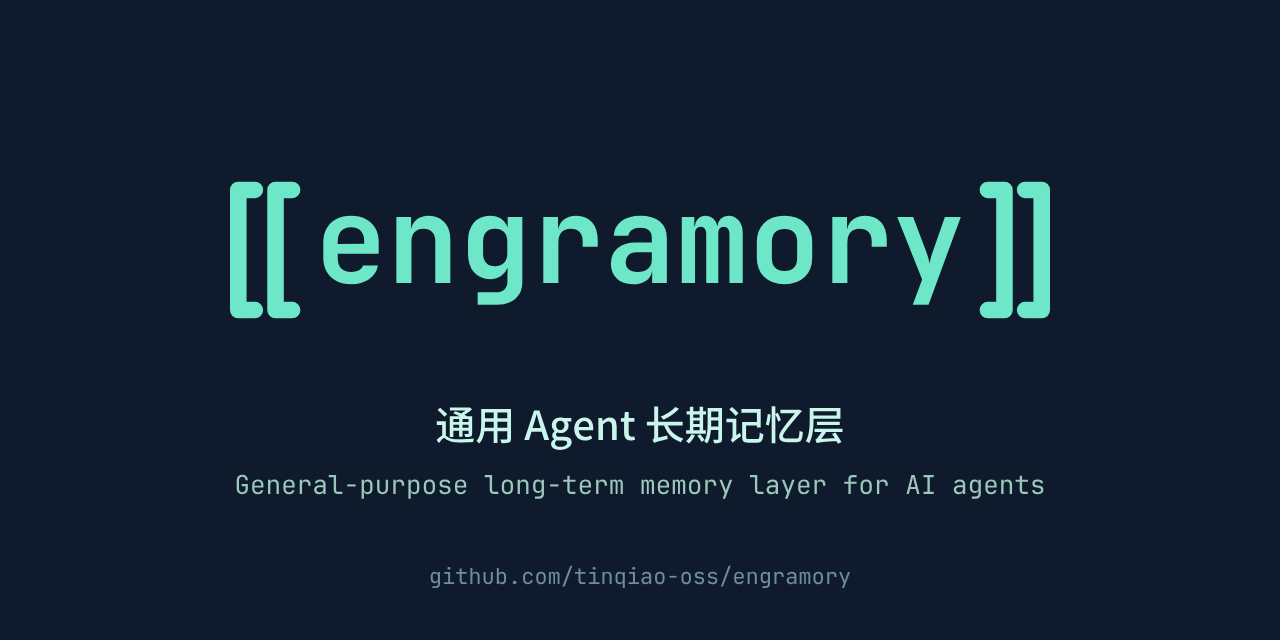
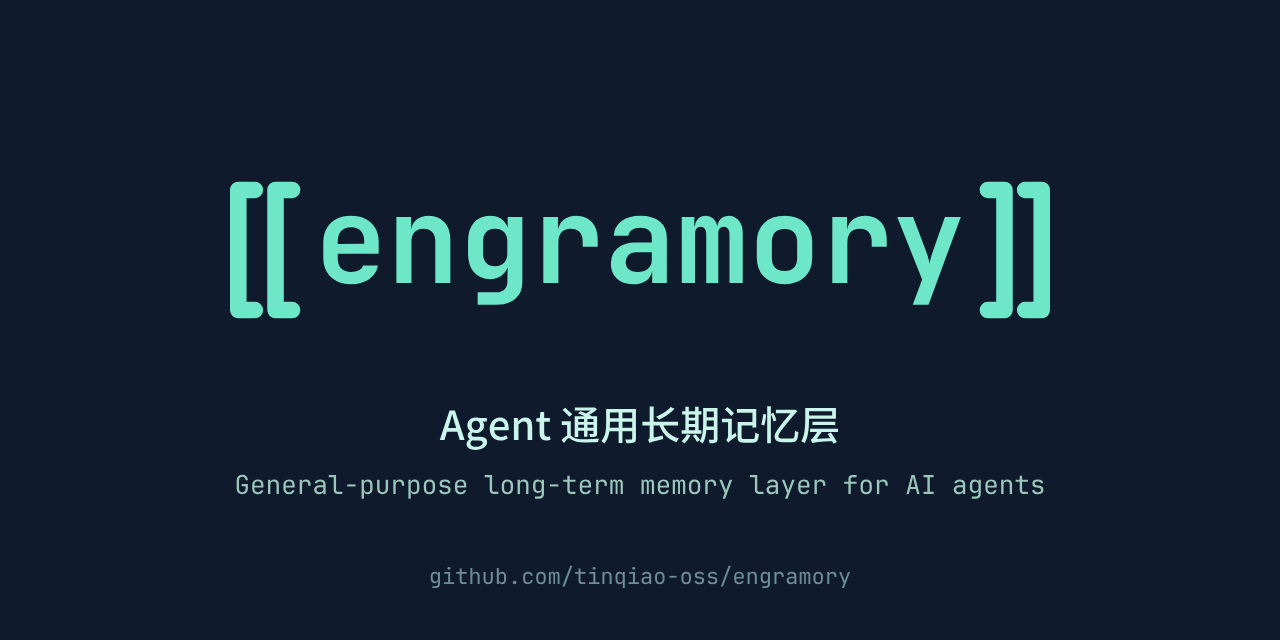
docs: tagline 「Agent 通用长期记忆层」; dsh screenshots of 1.0.5
- README, brand/README.md and the social preview read 「Agent 通用长期记忆层」
- the three dsh screenshots re-shot on the npm build of 1.0.5: the new plugin icon,
  the logo in the sidebar, the memory page titled 「Engramory 记忆」

Changed region(s): [[0.3438, 0.625, 0.6562, 0.7188]]

diff --git a/brand/src/make_brand.py b/brand/src/make_brand.py
@@ -17,7 +17,7 @@ import make_anim as A
 OUT = A.BRAND
 NAVY, MINT, TEAL = A.NAVY, A.MINT, (0x12, 0xA0, 0x7F)
 NAVY_RGB = (0x0F, 0x1B, 0x2D)
-TAGLINE_ZH = "通用 Agent 长期记忆层"
+TAGLINE_ZH = "Agent 通用长期记忆层"
 TAGLINE_EN = "General-purpose long-term memory layer for AI agents"
 REPO_URL = "github.com/tinqiao-oss/engramory"
 
@@ -93,7 +93,7 @@ def text_paths(ttf, text, size, cx, baseline, fill):
 
 
 def social():
-    """GitHub social preview, 1280x640. Tagline decided 2026-10-31: 通用 Agent 长期记忆层."""
+    """GitHub social preview, 1280x640. Tagline decided 2026-10-31: Agent 通用长期记忆层."""
     s = 820 / (LOCK_X1 - LOCK_X0)
     cx, cy = (LOCK_X0 + LOCK_X1) / 2, 32
     body = (f'<rect width="1280" height="640" fill="{NAVY}"/>'

diff --git a/README.md b/README.md
@@ -8,7 +8,7 @@
 [![License: MIT](https://img.shields.io/badge/License-MIT-blue.svg)](LICENSE)
 [![dsh-xray](https://img.shields.io/endpoint?url=https%3A%2F%2Funstone.github.io%2Fdsh-xray%2Fbadge%2Ftinqiao-oss__engramory.json)](https://unstone.github.io/dsh-xray/registry.html#tinqiao-oss__engramory)
 
-**通用 Agent 长期记忆层。** AI 记住的东西存成一个个普通 markdown 文件，一个只放指针的索引 `MEMORY.md` 列出全部笔记，每次会话开头读进来，细节要用时再打开。不需要数据库、向量或服务器，文件你能直接看、能改。Claude Code、Codex、[DeepSeek Harness](https://github.com/deepseek-ai/deepseek-harness)（dsh）、OpenClaw、Kiro 等都能用；一个工具负责写，别的工具可以只读同一个库。
+**Agent 通用长期记忆层。** AI 记住的东西存成一个个普通 markdown 文件，一个只放指针的索引 `MEMORY.md` 列出全部笔记，每次会话开头读进来，细节要用时再打开。不需要数据库、向量或服务器，文件你能直接看、能改。Claude Code、Codex、[DeepSeek Harness](https://github.com/deepseek-ai/deepseek-harness)（dsh）、OpenClaw、Kiro 等都能用；一个工具负责写，别的工具可以只读同一个库。
 
 **dsh 有专用插件** `dsh-engramory`：装上就能用，每轮自动带上索引，把索引写超上限的写入大多在落盘前就被拦下，侧栏还多一个记忆页。Claude Code 用 hook 拦超限写入；其他工具靠规则加校验脚本。
 

diff --git a/brand/README.md b/brand/README.md
@@ -2,7 +2,7 @@
 
 标志是双链 `[[ ]]` 中间一个光标。`[[ ]]` 是 markdown 笔记里链接另一条笔记的写法，光标表示正在写下一条记忆。动图里它像一本合在左边的书，往右翻过几页，翻开后在光标处打出 `engramory`；最后一个字母 y 落下的同时光标退场，停在 `[[engramory]]`。
 
-标语：**通用 Agent 长期记忆层**（英文 General-purpose long-term memory layer for AI agents）。
+标语：**Agent 通用长期记忆层**（英文 General-purpose long-term memory layer for AI agents）。
 
 ## 颜色
 
